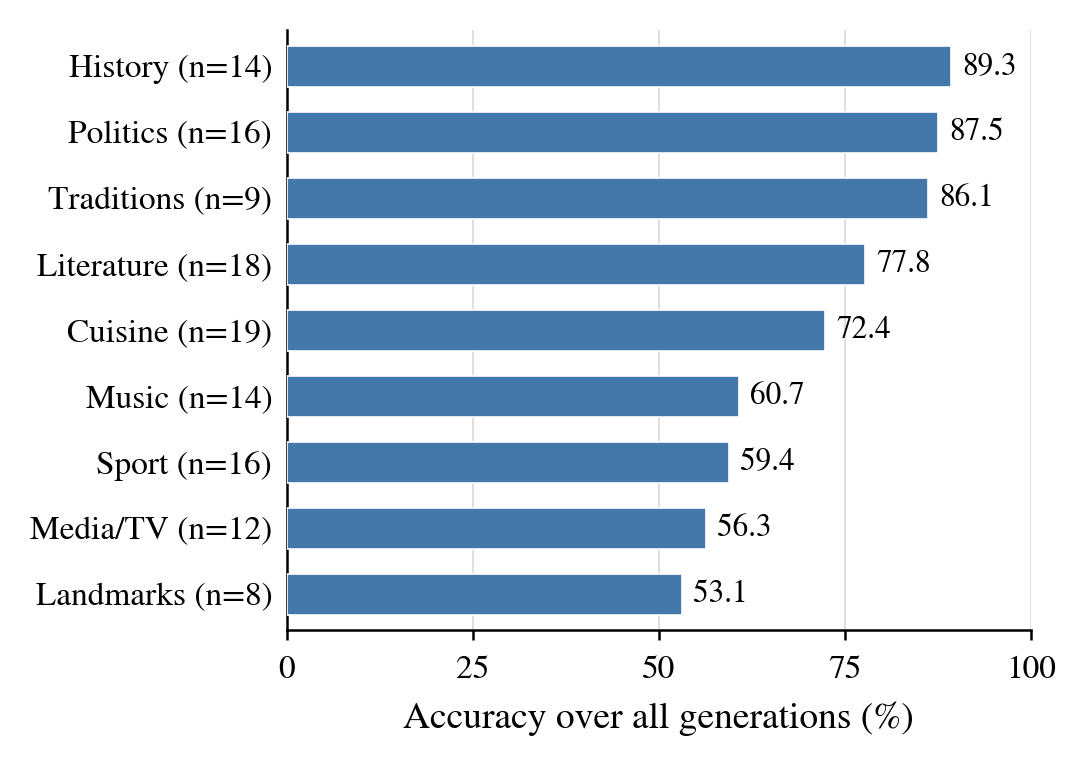
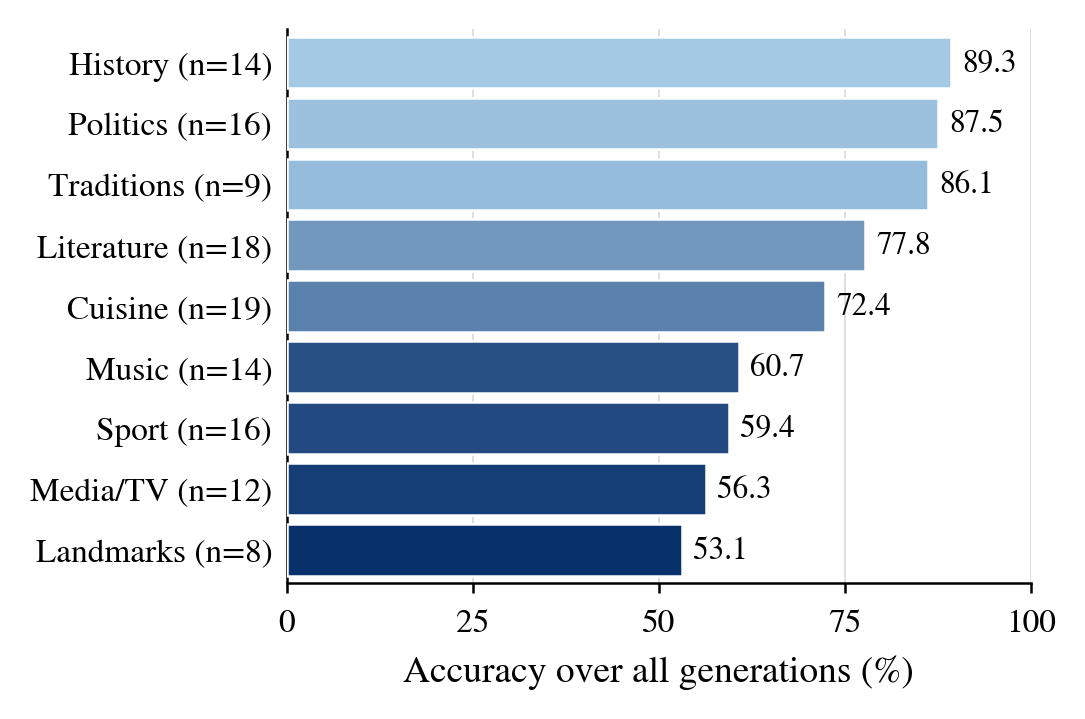
Polish category difficulty figure: tight bars, difficulty-shaded colors (darker = harder)

diff --git a/scripts/make_paper_assets.py b/scripts/make_paper_assets.py
@@ -227,11 +227,18 @@ def fig_category_overall():
     cats = sorted(counts, key=lambda c: -pooled[c])
     ys = np.arange(len(cats))[::-1]
 
-    fig, ax = plt.subplots(figsize=(3.2, 2.6))
+    # renk = zorluk (koyu = zor); difficulty figuruyle ayni gorsel dil
+    lo, hi = min(pooled.values()), max(pooled.values())
+    def shade(v):  # v yuksek (kolay) -> acik; dusuk (zor) -> koyu
+        t = (v - lo) / (hi - lo) if hi > lo else 0.5
+        c0, c1 = (8, 48, 107), (163, 201, 229)  # #08306B -> #A3C9E5
+        return "#%02X%02X%02X" % tuple(round(a + t * (b - a)) for a, b in zip(c0, c1))
+
+    fig, ax = plt.subplots(figsize=(3.2, 2.4))
     ax.xaxis.grid(True)
     for y, c in zip(ys, cats):
-        ax.barh(y, pooled[c], height=0.62, color="#4477AA",
-                edgecolor="white", linewidth=0.4, zorder=3)
+        ax.barh(y, pooled[c], height=0.85, color=shade(pooled[c]),
+                edgecolor="white", linewidth=0.6, zorder=3)
         ax.text(pooled[c] + 1.5, y, f"{pooled[c]:.1f}", ha="left",
                 va="center", fontsize=7.5, color=INK)
     ax.set_yticks(ys)
